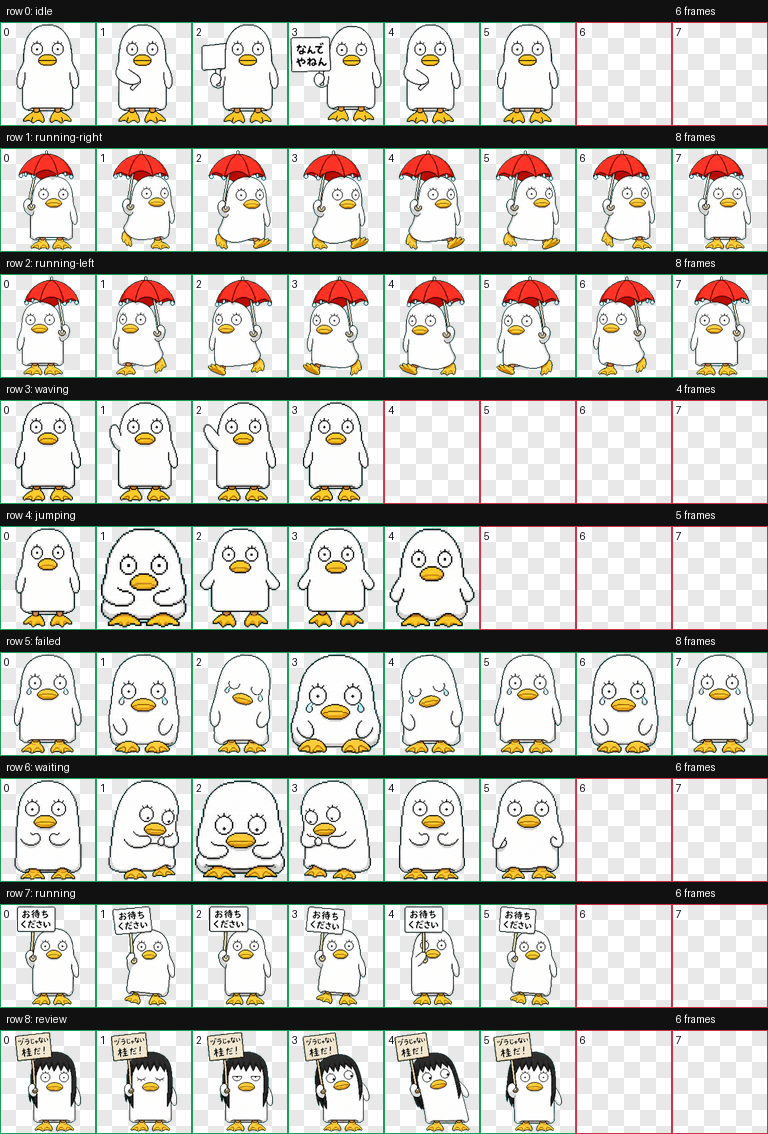
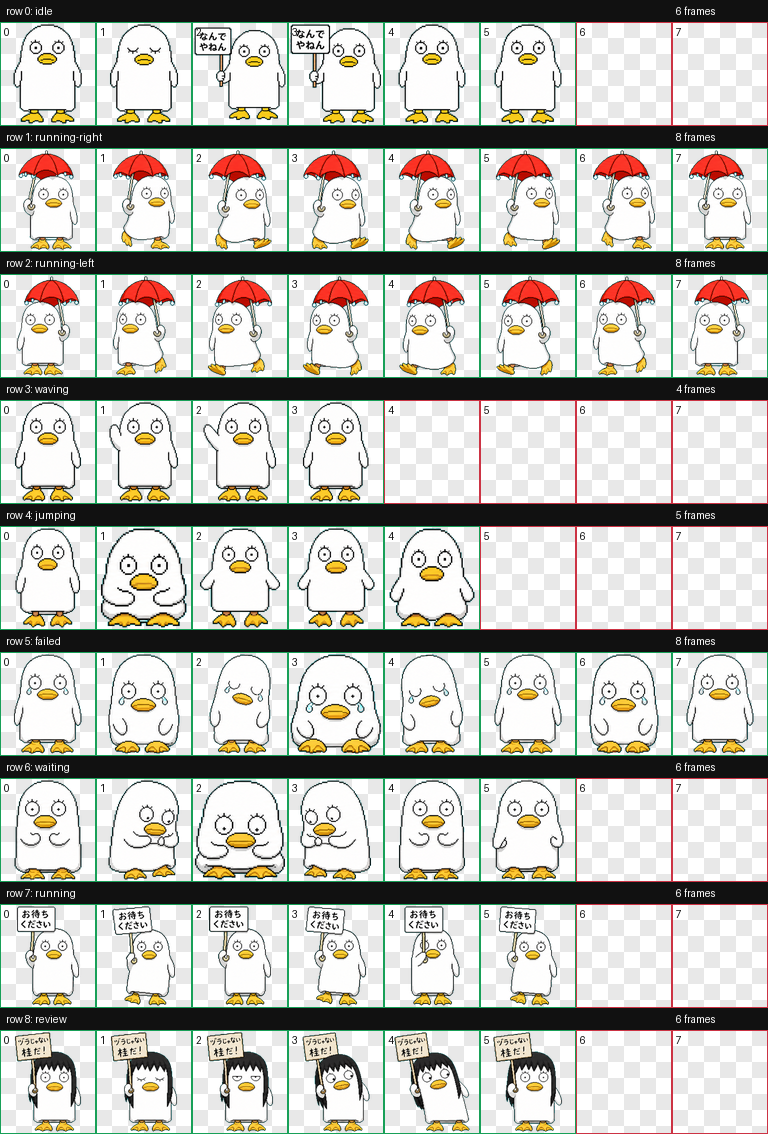
Simplify classic idle placard pose

diff --git a/README.md b/README.md
@@ -15,7 +15,7 @@ The original approved set.
 A second set with classic Elizabeth moments:
 
 - walking in the rain with a red umbrella
-- idle loop where Elizabeth pulls out a 「なんでやねん」 placard
+- idle loop where Elizabeth briefly holds a side 「なんでやねん」 placard
 - active processing state holding a sign that says 「お待ちください」
 - waiting state using the small busy pose
 - fixed rounded-head waving with Elizabeth's normal round-eyed expression

diff --git a/README.zh-CN.md b/README.zh-CN.md
@@ -15,7 +15,7 @@
 第二套经典动作版，包含：
 
 - 雨中撑红伞漫步
-- idle 循环中会掏出写着「なんでやねん」的吐槽牌
+- idle 循环中会短暂侧举写着「なんでやねん」的吐槽牌
 - 正在处理任务时举牌写着「お待ちください」
 - 等待状态使用小忙碌动作
 - 修正挥手行头型，保持伊丽莎白圆顶头和圆眼